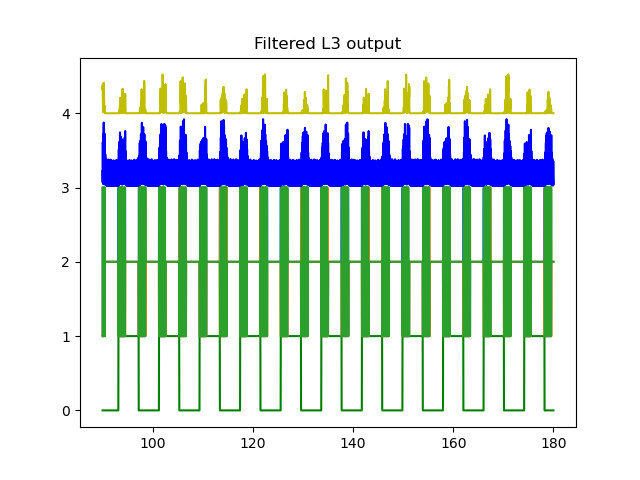
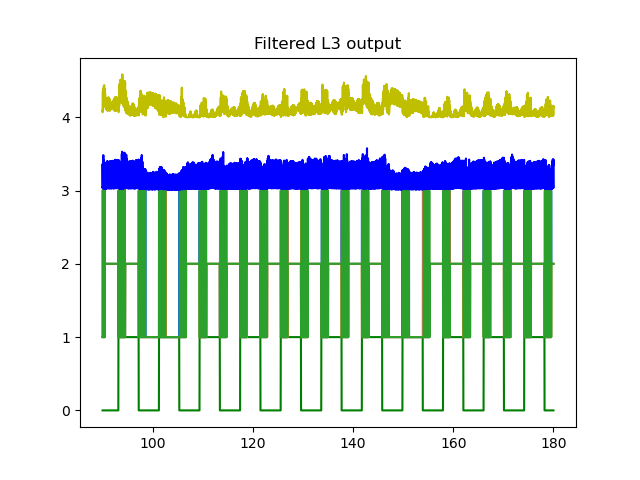
mod input padded zeros eq -1

diff --git a/three-layers-feedback.py b/three-layers-feedback.py
@@ -51,6 +51,7 @@ ts = 45  # number of timesteps to hold a driving symbol constant for.
 
 threeChannelsOF1, end_channel = phase_automata(driving_symbol="1", probability_of_transition=True, timesteps=ts)
 padded_zeros = np.zeros((3, ts * 2), dtype=float)
+padded_zeros = padded_zeros - 1.0
 threeChannels1 = np.concatenate((threeChannelsOF1, padded_zeros), axis=1)
 threeChannelsOF0, end_channel0 = phase_automata(driving_symbol="0", probability_of_transition=True, timesteps=ts)
 threeChannels0 = np.concatenate((threeChannelsOF0, padded_zeros), axis=1)
@@ -221,11 +222,11 @@ while not good:
             best_neuron_value = sum
         print(best_neuron_value, best_neuron_index, reseed)
         i += 1
-    if (best_neuron_value < 4000):
+    if (best_neuron_value < 30000):
         good = True
     else:
         reseed += 1
-    good = True
+    #good = True
 
 plt.figure()
 plt.title("Filtered output")
